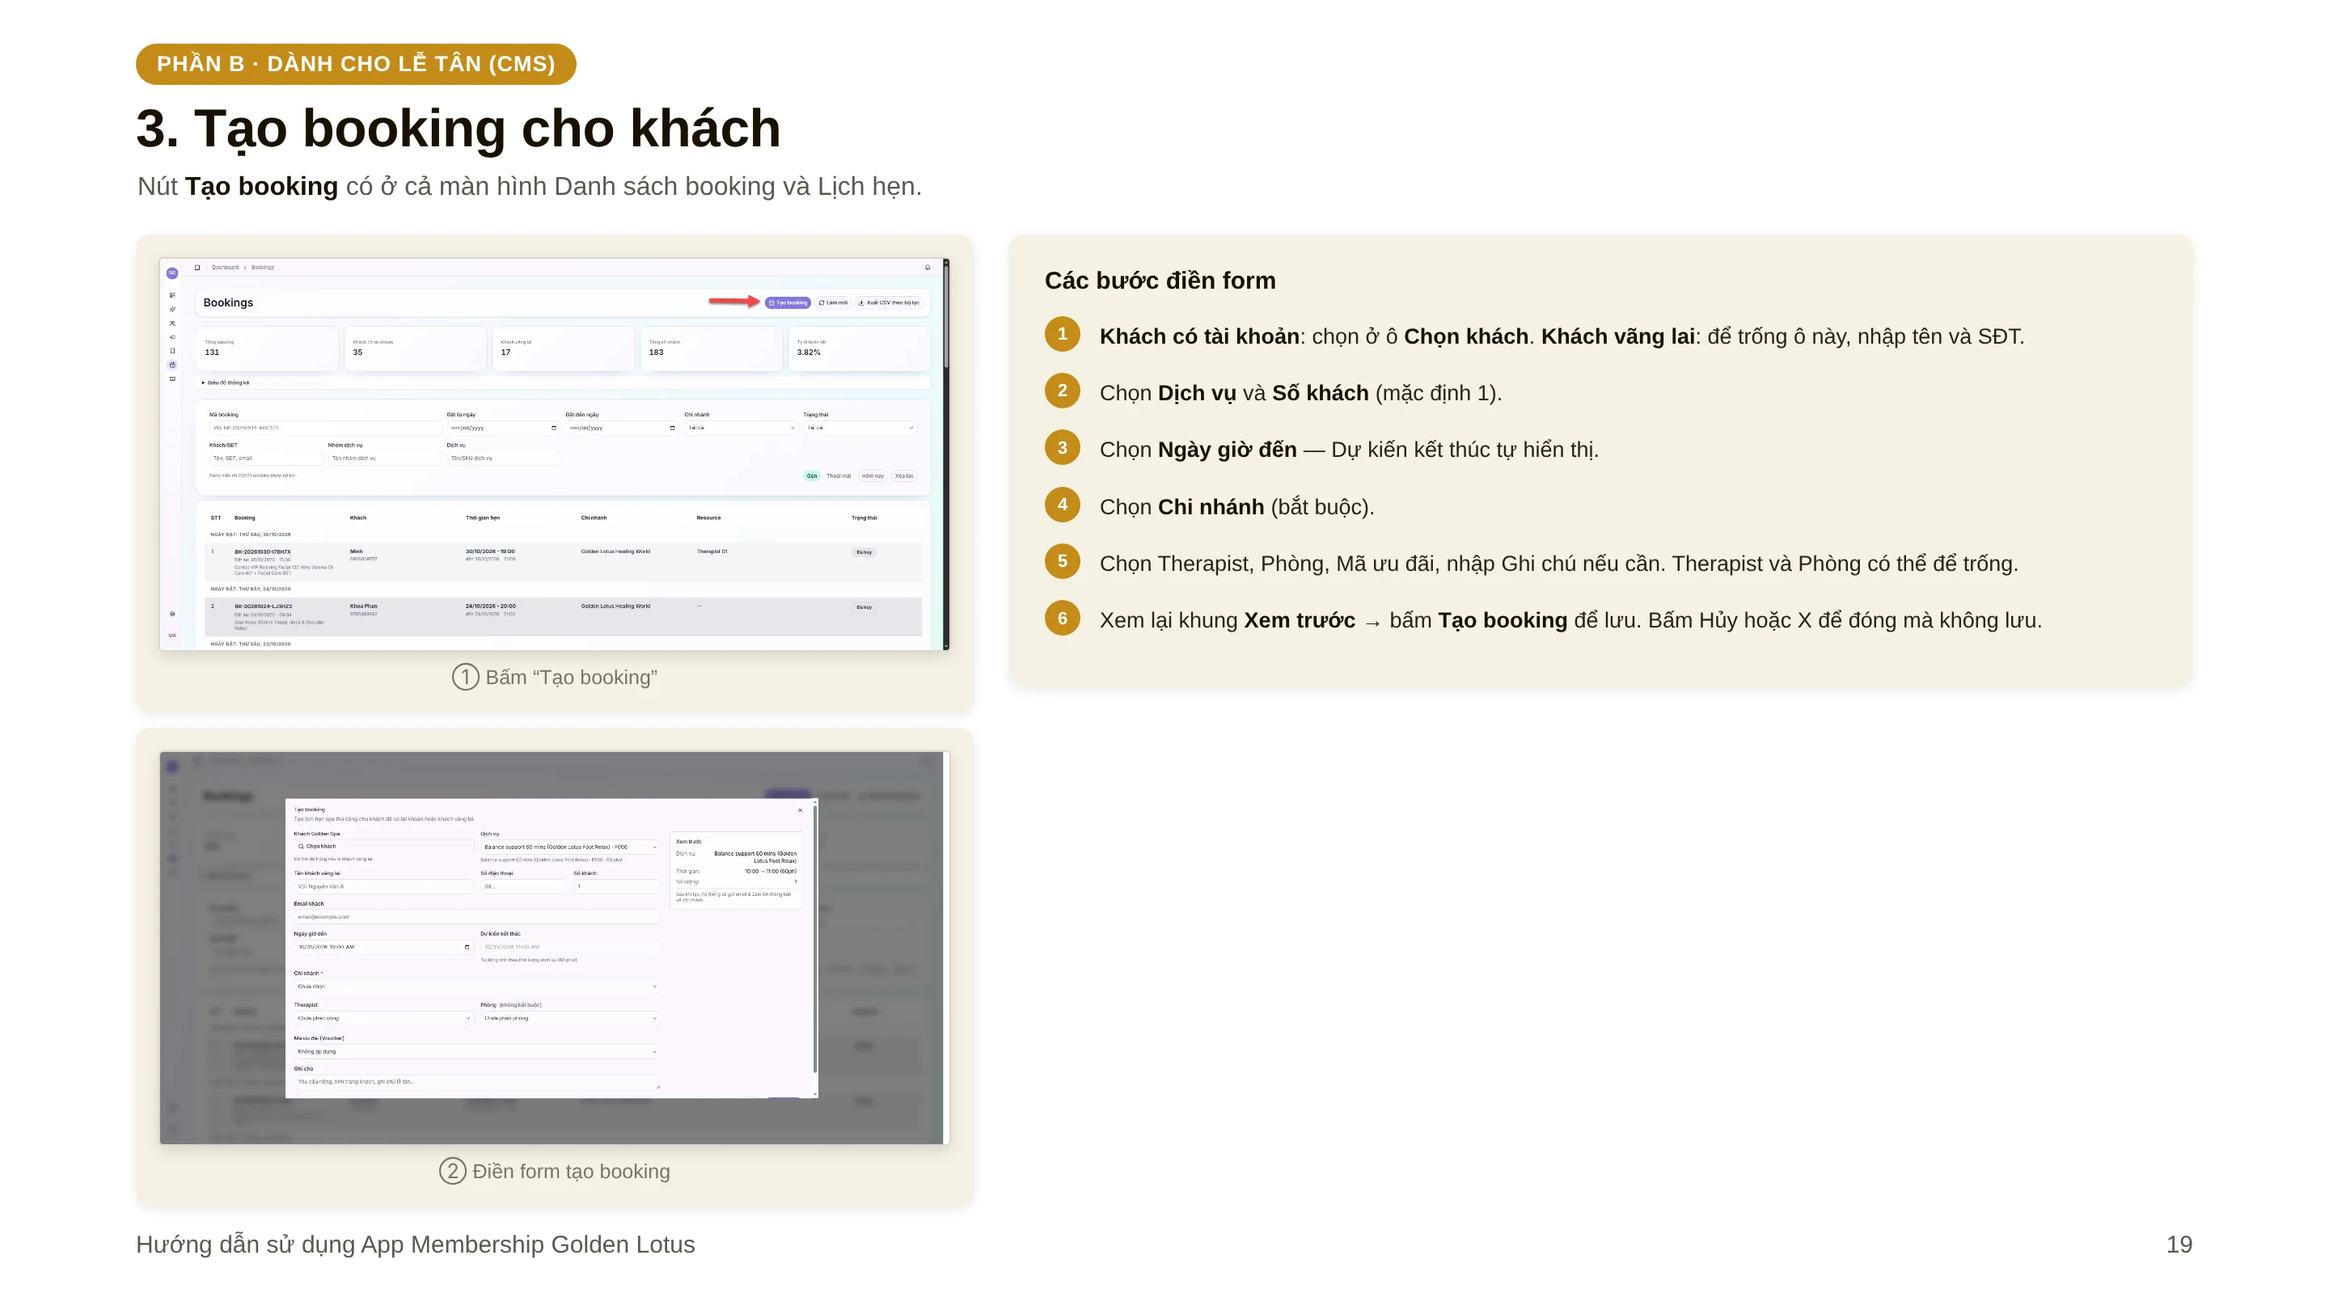
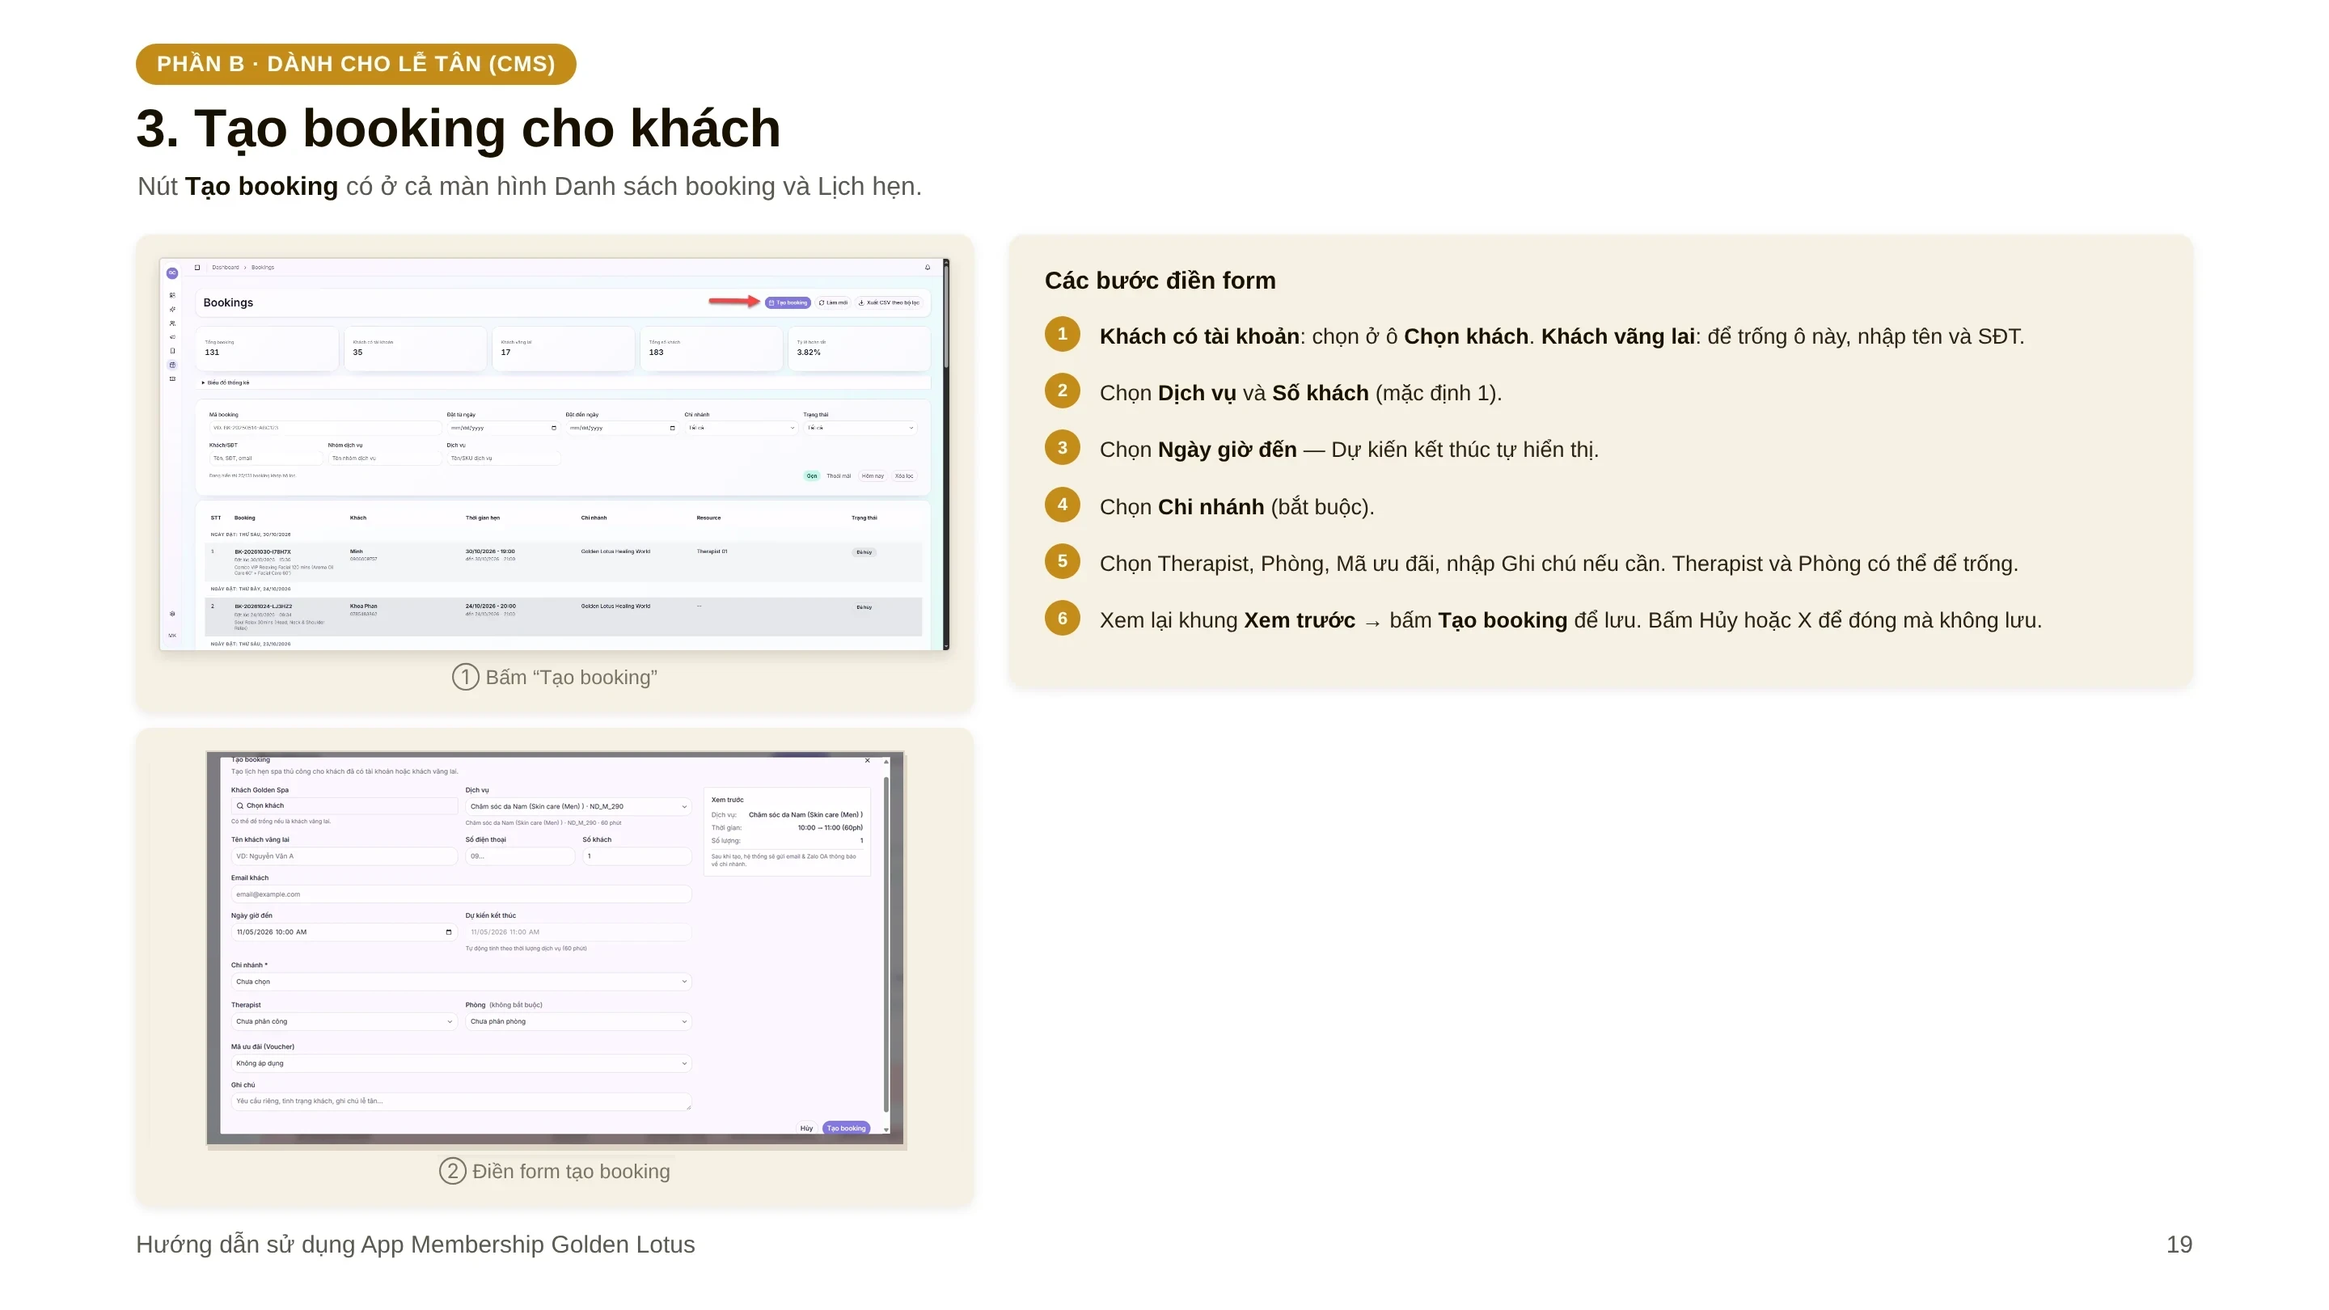
Slide 19: thay ảnh form Tạo booking bằng ảnh mới
Claude-Session: https://claude.ai/code/session_01RoCCcE5aUAib2frrCe3aCP

Changed region(s): [[0.0625, 0.5556, 0.4062, 0.8951], [0.1875, 0.7099, 0.25, 0.7407]]

diff --git a/membership-guide/src/app.html b/membership-guide/src/app.html
@@ -60,7 +60,7 @@ const NM=["Đăng ký tài khoản / Đăng nhập","Tìm lại mật khẩu","T
 const TO=[2,4,5,6,7,9,11,12,13,14,15,18,19,21,30,25,26];
 const CARDS=[[5.83,20.56,16.77,18.52],[23.75,20.56,16.77,18.52],[41.67,20.56,16.77,18.52],[59.58,20.56,16.77,18.52],[77.5,20.56,16.77,18.52],[5.83,40.74,16.77,18.52],[23.75,40.74,16.77,18.52],[41.67,40.74,16.77,18.52],[59.58,40.74,16.77,18.52],[5.83,67.96,9.0,18.52],[15.83,67.96,9.0,18.52],[25.83,67.96,9.0,18.52],[35.83,67.96,9.0,18.52],[45.83,67.96,9.0,18.52],[55.83,67.96,9.0,18.52],[72.92,67.96,10.07,18.52],[84.1,67.96,10.07,18.52]];
 const HOT=NM.map((n,i)=>({l:CARDS[i][0],t:CARDS[i][1],w:CARDS[i][2],h:CARDS[i][3],to:TO[i],name:n}));
-const ZONES={"2":[[5.1,28.89,13.09,47.55],[20.44,30.07,13.09,45.19],[35.78,28.65,13.09,48.03],[51.11,36.07,13.09,33.19],[66.45,29.71,13.09,45.92],[81.79,29.75,13.09,45.84]],"3":[[10.98,26.93,15.01,54.53],[42.47,26.93,15.04,54.53],[74.51,26.93,13.96,54.53]],"4":[[5.1,36.35,10.9,32.63],[18.25,37.0,10.9,31.33],[31.39,36.99,10.9,31.36],[44.54,35.58,10.9,34.17],[57.69,39.79,10.9,25.76],[70.83,38.88,10.9,27.57],[83.98,35.28,10.9,34.78]],"5":[[5.9,26.93,14.55,53.47],[23.51,46.94,16.16,13.46],[41.91,32.44,16.16,42.45],[60.32,42.27,16.16,22.8],[79.84,26.93,13.92,53.47]],"6":[[11.09,26.93,14.79,54.53],[41.83,26.93,16.31,54.53],[68.21,37.44,26.55,33.52]],"7":[[5.1,32.86,10.9,39.62],[18.25,37.44,10.9,30.45],[31.39,34.51,10.9,36.32],[44.54,31.95,10.9,41.44],[59.23,26.93,7.81,51.47],[70.83,30.18,10.9,44.98],[83.98,28.28,10.9,48.78]],"8":[[7.41,26.93,15.23,53.47],[28.41,36.35,19.86,34.64],[51.71,31.14,19.86,45.06],[75.96,26.93,17.97,53.47]],"9":[[11.04,26.93,14.9,54.53],[42.62,26.93,14.74,54.53],[68.21,34.78,26.55,38.84]],"10":[[5.1,35.46,10.9,39.48],[18.25,35.15,10.9,40.11],[31.39,39.31,10.9,31.78],[44.54,42.79,10.9,24.82],[57.69,35.05,10.9,40.3],[70.83,39.31,10.9,31.78],[83.98,42.79,10.9,24.82]],"11":[[10.96,26.93,15.05,54.53],[42.43,26.93,15.11,54.53],[68.21,39.52,26.55,29.35]],"12":[[11.12,26.93,14.74,54.53],[42.28,26.93,15.42,54.53],[73.98,26.93,15.01,54.53]],"13":[[7.83,26.93,21.32,54.53],[39.73,26.93,20.51,54.53],[73.98,26.93,15.01,54.53]],"14":[[32.4,19.63,65.97,60.3,"lt_cms.webp",1836,942]],"15":[[7.15,35.93,32.64,33.83,"lt_ds1.webp",1686,1004],[41.11,35.93,32.64,33.83,"lt_ds2.webp",1687,1006]],"16":[[6.81,19.63,84.72,25.03,"lt_filter.webp",1420,234]],"17":[[6.81,19.63,76.39,37.38,"lt_table.webp",1420,389]],"18":[[6.81,19.63,34.03,30.15,"b_bk3.webp",1920,953],[6.81,57.31,34.03,30.15,"b_bk4.webp",1920,953]],"19":[[6.81,19.63,67.36,62.96,"lt_lh.webp",1854,973]],"20":[[6.81,19.63,64.03,11.6,"lh_top.webp",920,92],[6.81,38.89,64.03,40.93,"lh_grid.webp",1340,480]],"21":[[5.83,24.26,52.6,48.57],[60.42,63.89,19.79,25.7]],"22":[[5.83,24.26,54.69,56.16]],"23":[[5.83,24.26,61.46,47.39]],"24":[[6.81,19.63,40.97,36.28,"b_bk5.webp",1920,953],[51.67,19.63,40.97,36.28,"b_bk6.webp",1920,953]],"25":[[27.22,19.63,65.97,59.97,"kt_full.webp",1852,945]],"26":[[6.81,19.63,67.36,61.23,"kt_full.webp",1852,945]],"27":[[6.81,19.63,86.39,18.48,"kt_cards.webp",1430,170],[6.81,42.8,86.39,14.4,"kt_filter.webp",1430,132]],"28":[[6.81,19.63,84.72,42.65,"kt_table.webp",1390,392]],"29":[[6.81,19.63,84.72,42.65,"kt_table.webp",1390,392]],"31":[[7.08, 20.25, 18.06, 53.58, "pos_ph_00.jpg", 425, 652], [52.01, 20.25, 18.06, 53.58, "pos_ph_01.jpg", 416, 630]],"32":[[6.94, 20.0, 26.18, 40.74, "pos_ph_02.jpg", 478, 532], [36.88, 20.0, 26.18, 40.74, "pos_use_point_full.jpg", 1910, 1085], [66.81, 20.0, 26.18, 40.74, "pos_ph_03.jpg", 409, 655]],"33":[[6.94, 20.0, 26.18, 40.74, "pos_ph_04.jpg", 558, 868], [36.88, 20.0, 26.18, 40.74, "pos_ph_05.jpg", 552, 635], [66.81, 20.0, 26.18, 40.74, "pos_ph_06.jpg", 445, 654]],"36":[[6.94, 20.0, 26.18, 40.74, "pos_ph_07.jpg", 425, 652], [36.88, 20.0, 26.18, 40.74, "pos_ph_08.jpg", 416, 630], [66.81, 20.0, 26.18, 40.74, "pos_ph_09.jpg", 1758, 868]],"37":[[6.94, 20.0, 26.18, 40.74, "pos_ph_10.jpg", 506, 848], [36.88, 20.0, 26.18, 40.74, "pos_ph_11.jpg", 987, 862], [66.81, 20.0, 26.18, 40.74, "pos_ph_12.jpg", 2048, 939]],"38":[[6.94, 20.0, 33.89, 37.04, "pos_ph_13.jpg", 935, 646]],"39":[[6.67, 19.51, 34.44, 61.23, "pos_huy_phieu.jpg", 1000, 975]]};
+const ZONES={"2":[[5.1,28.89,13.09,47.55],[20.44,30.07,13.09,45.19],[35.78,28.65,13.09,48.03],[51.11,36.07,13.09,33.19],[66.45,29.71,13.09,45.92],[81.79,29.75,13.09,45.84]],"3":[[10.98,26.93,15.01,54.53],[42.47,26.93,15.04,54.53],[74.51,26.93,13.96,54.53]],"4":[[5.1,36.35,10.9,32.63],[18.25,37.0,10.9,31.33],[31.39,36.99,10.9,31.36],[44.54,35.58,10.9,34.17],[57.69,39.79,10.9,25.76],[70.83,38.88,10.9,27.57],[83.98,35.28,10.9,34.78]],"5":[[5.9,26.93,14.55,53.47],[23.51,46.94,16.16,13.46],[41.91,32.44,16.16,42.45],[60.32,42.27,16.16,22.8],[79.84,26.93,13.92,53.47]],"6":[[11.09,26.93,14.79,54.53],[41.83,26.93,16.31,54.53],[68.21,37.44,26.55,33.52]],"7":[[5.1,32.86,10.9,39.62],[18.25,37.44,10.9,30.45],[31.39,34.51,10.9,36.32],[44.54,31.95,10.9,41.44],[59.23,26.93,7.81,51.47],[70.83,30.18,10.9,44.98],[83.98,28.28,10.9,48.78]],"8":[[7.41,26.93,15.23,53.47],[28.41,36.35,19.86,34.64],[51.71,31.14,19.86,45.06],[75.96,26.93,17.97,53.47]],"9":[[11.04,26.93,14.9,54.53],[42.62,26.93,14.74,54.53],[68.21,34.78,26.55,38.84]],"10":[[5.1,35.46,10.9,39.48],[18.25,35.15,10.9,40.11],[31.39,39.31,10.9,31.78],[44.54,42.79,10.9,24.82],[57.69,35.05,10.9,40.3],[70.83,39.31,10.9,31.78],[83.98,42.79,10.9,24.82]],"11":[[10.96,26.93,15.05,54.53],[42.43,26.93,15.11,54.53],[68.21,39.52,26.55,29.35]],"12":[[11.12,26.93,14.74,54.53],[42.28,26.93,15.42,54.53],[73.98,26.93,15.01,54.53]],"13":[[7.83,26.93,21.32,54.53],[39.73,26.93,20.51,54.53],[73.98,26.93,15.01,54.53]],"14":[[32.4,19.63,65.97,60.3,"lt_cms.webp",1836,942]],"15":[[7.15,35.93,32.64,33.83,"lt_ds1.webp",1686,1004],[41.11,35.93,32.64,33.83,"lt_ds2.webp",1687,1006]],"16":[[6.81,19.63,84.72,25.03,"lt_filter.webp",1420,234]],"17":[[6.81,19.63,76.39,37.38,"lt_table.webp",1420,389]],"18":[[6.81,19.63,34.03,30.15,"b_bk3.webp",1920,953],[8.82,57.28,30.0,30.12,"b_bk4n.webp",1352,764]],"19":[[6.81,19.63,67.36,62.96,"lt_lh.webp",1854,973]],"20":[[6.81,19.63,64.03,11.6,"lh_top.webp",920,92],[6.81,38.89,64.03,40.93,"lh_grid.webp",1340,480]],"21":[[5.83,24.26,52.6,48.57],[60.42,63.89,19.79,25.7]],"22":[[5.83,24.26,54.69,56.16]],"23":[[5.83,24.26,61.46,47.39]],"24":[[6.81,19.63,40.97,36.28,"b_bk5.webp",1920,953],[51.67,19.63,40.97,36.28,"b_bk6.webp",1920,953]],"25":[[27.22,19.63,65.97,59.97,"kt_full.webp",1852,945]],"26":[[6.81,19.63,67.36,61.23,"kt_full.webp",1852,945]],"27":[[6.81,19.63,86.39,18.48,"kt_cards.webp",1430,170],[6.81,42.8,86.39,14.4,"kt_filter.webp",1430,132]],"28":[[6.81,19.63,84.72,42.65,"kt_table.webp",1390,392]],"29":[[6.81,19.63,84.72,42.65,"kt_table.webp",1390,392]],"31":[[7.08, 20.25, 18.06, 53.58, "pos_ph_00.jpg", 425, 652], [52.01, 20.25, 18.06, 53.58, "pos_ph_01.jpg", 416, 630]],"32":[[6.94, 20.0, 26.18, 40.74, "pos_ph_02.jpg", 478, 532], [36.88, 20.0, 26.18, 40.74, "pos_use_point_full.jpg", 1910, 1085], [66.81, 20.0, 26.18, 40.74, "pos_ph_03.jpg", 409, 655]],"33":[[6.94, 20.0, 26.18, 40.74, "pos_ph_04.jpg", 558, 868], [36.88, 20.0, 26.18, 40.74, "pos_ph_05.jpg", 552, 635], [66.81, 20.0, 26.18, 40.74, "pos_ph_06.jpg", 445, 654]],"36":[[6.94, 20.0, 26.18, 40.74, "pos_ph_07.jpg", 425, 652], [36.88, 20.0, 26.18, 40.74, "pos_ph_08.jpg", 416, 630], [66.81, 20.0, 26.18, 40.74, "pos_ph_09.jpg", 1758, 868]],"37":[[6.94, 20.0, 26.18, 40.74, "pos_ph_10.jpg", 506, 848], [36.88, 20.0, 26.18, 40.74, "pos_ph_11.jpg", 987, 862], [66.81, 20.0, 26.18, 40.74, "pos_ph_12.jpg", 2048, 939]],"38":[[6.94, 20.0, 33.89, 37.04, "pos_ph_13.jpg", 935, 646]],"39":[[6.67, 19.51, 34.44, 61.23, "pos_huy_phieu.jpg", 1000, 975]]};
 const SIZES=[148518,242384,443017,373956,424631,517810,395477,518151,401313,393800,597413,375189,449216,393479,329762];
 let IMGS=[];
 const img=document.getElementById('img'),slide=document.getElementById('slide');

diff --git a/membership-guide/src/index.html b/membership-guide/src/index.html
@@ -60,7 +60,7 @@ const NM=["Đăng ký tài khoản / Đăng nhập","Tìm lại mật khẩu","T
 const TO=[2,4,5,6,7,9,11,12,13,14,15,18,19,21,30,25,26];
 const CARDS=[[5.83,20.56,16.77,18.52],[23.75,20.56,16.77,18.52],[41.67,20.56,16.77,18.52],[59.58,20.56,16.77,18.52],[77.5,20.56,16.77,18.52],[5.83,40.74,16.77,18.52],[23.75,40.74,16.77,18.52],[41.67,40.74,16.77,18.52],[59.58,40.74,16.77,18.52],[5.83,67.96,9.0,18.52],[15.83,67.96,9.0,18.52],[25.83,67.96,9.0,18.52],[35.83,67.96,9.0,18.52],[45.83,67.96,9.0,18.52],[55.83,67.96,9.0,18.52],[72.92,67.96,10.07,18.52],[84.1,67.96,10.07,18.52]];
 const HOT=NM.map((n,i)=>({l:CARDS[i][0],t:CARDS[i][1],w:CARDS[i][2],h:CARDS[i][3],to:TO[i],name:n}));
-const ZONES={"2":[[5.1,28.89,13.09,47.55],[20.44,30.07,13.09,45.19],[35.78,28.65,13.09,48.03],[51.11,36.07,13.09,33.19],[66.45,29.71,13.09,45.92],[81.79,29.75,13.09,45.84]],"3":[[10.98,26.93,15.01,54.53],[42.47,26.93,15.04,54.53],[74.51,26.93,13.96,54.53]],"4":[[5.1,36.35,10.9,32.63],[18.25,37.0,10.9,31.33],[31.39,36.99,10.9,31.36],[44.54,35.58,10.9,34.17],[57.69,39.79,10.9,25.76],[70.83,38.88,10.9,27.57],[83.98,35.28,10.9,34.78]],"5":[[5.9,26.93,14.55,53.47],[23.51,46.94,16.16,13.46],[41.91,32.44,16.16,42.45],[60.32,42.27,16.16,22.8],[79.84,26.93,13.92,53.47]],"6":[[11.09,26.93,14.79,54.53],[41.83,26.93,16.31,54.53],[68.21,37.44,26.55,33.52]],"7":[[5.1,32.86,10.9,39.62],[18.25,37.44,10.9,30.45],[31.39,34.51,10.9,36.32],[44.54,31.95,10.9,41.44],[59.23,26.93,7.81,51.47],[70.83,30.18,10.9,44.98],[83.98,28.28,10.9,48.78]],"8":[[7.41,26.93,15.23,53.47],[28.41,36.35,19.86,34.64],[51.71,31.14,19.86,45.06],[75.96,26.93,17.97,53.47]],"9":[[11.04,26.93,14.9,54.53],[42.62,26.93,14.74,54.53],[68.21,34.78,26.55,38.84]],"10":[[5.1,35.46,10.9,39.48],[18.25,35.15,10.9,40.11],[31.39,39.31,10.9,31.78],[44.54,42.79,10.9,24.82],[57.69,35.05,10.9,40.3],[70.83,39.31,10.9,31.78],[83.98,42.79,10.9,24.82]],"11":[[10.96,26.93,15.05,54.53],[42.43,26.93,15.11,54.53],[68.21,39.52,26.55,29.35]],"12":[[11.12,26.93,14.74,54.53],[42.28,26.93,15.42,54.53],[73.98,26.93,15.01,54.53]],"13":[[7.83,26.93,21.32,54.53],[39.73,26.93,20.51,54.53],[73.98,26.93,15.01,54.53]],"14":[[32.4,19.63,65.97,60.3,"lt_cms.webp",1836,942]],"15":[[7.15,35.93,32.64,33.83,"lt_ds1.webp",1686,1004],[41.11,35.93,32.64,33.83,"lt_ds2.webp",1687,1006]],"16":[[6.81,19.63,84.72,25.03,"lt_filter.webp",1420,234]],"17":[[6.81,19.63,76.39,37.38,"lt_table.webp",1420,389]],"18":[[6.81,19.63,34.03,30.15,"b_bk3.webp",1920,953],[6.81,57.31,34.03,30.15,"b_bk4.webp",1920,953]],"19":[[6.81,19.63,67.36,62.96,"lt_lh.webp",1854,973]],"20":[[6.81,19.63,64.03,11.6,"lh_top.webp",920,92],[6.81,38.89,64.03,40.93,"lh_grid.webp",1340,480]],"21":[[5.83,24.26,52.6,48.57],[60.42,63.89,19.79,25.7]],"22":[[5.83,24.26,54.69,56.16]],"23":[[5.83,24.26,61.46,47.39]],"24":[[6.81,19.63,40.97,36.28,"b_bk5.webp",1920,953],[51.67,19.63,40.97,36.28,"b_bk6.webp",1920,953]],"25":[[27.22,19.63,65.97,59.97,"kt_full.webp",1852,945]],"26":[[6.81,19.63,67.36,61.23,"kt_full.webp",1852,945]],"27":[[6.81,19.63,86.39,18.48,"kt_cards.webp",1430,170],[6.81,42.8,86.39,14.4,"kt_filter.webp",1430,132]],"28":[[6.81,19.63,84.72,42.65,"kt_table.webp",1390,392]],"29":[[6.81,19.63,84.72,42.65,"kt_table.webp",1390,392]],"31":[[7.08, 20.25, 18.06, 53.58, "pos_ph_00.jpg", 425, 652], [52.01, 20.25, 18.06, 53.58, "pos_ph_01.jpg", 416, 630]],"32":[[6.94, 20.0, 26.18, 40.74, "pos_ph_02.jpg", 478, 532], [36.88, 20.0, 26.18, 40.74, "pos_use_point_full.jpg", 1910, 1085], [66.81, 20.0, 26.18, 40.74, "pos_ph_03.jpg", 409, 655]],"33":[[6.94, 20.0, 26.18, 40.74, "pos_ph_04.jpg", 558, 868], [36.88, 20.0, 26.18, 40.74, "pos_ph_05.jpg", 552, 635], [66.81, 20.0, 26.18, 40.74, "pos_ph_06.jpg", 445, 654]],"36":[[6.94, 20.0, 26.18, 40.74, "pos_ph_07.jpg", 425, 652], [36.88, 20.0, 26.18, 40.74, "pos_ph_08.jpg", 416, 630], [66.81, 20.0, 26.18, 40.74, "pos_ph_09.jpg", 1758, 868]],"37":[[6.94, 20.0, 26.18, 40.74, "pos_ph_10.jpg", 506, 848], [36.88, 20.0, 26.18, 40.74, "pos_ph_11.jpg", 987, 862], [66.81, 20.0, 26.18, 40.74, "pos_ph_12.jpg", 2048, 939]],"38":[[6.94, 20.0, 33.89, 37.04, "pos_ph_13.jpg", 935, 646]],"39":[[6.67, 19.51, 34.44, 61.23, "pos_huy_phieu.jpg", 1000, 975]]};
+const ZONES={"2":[[5.1,28.89,13.09,47.55],[20.44,30.07,13.09,45.19],[35.78,28.65,13.09,48.03],[51.11,36.07,13.09,33.19],[66.45,29.71,13.09,45.92],[81.79,29.75,13.09,45.84]],"3":[[10.98,26.93,15.01,54.53],[42.47,26.93,15.04,54.53],[74.51,26.93,13.96,54.53]],"4":[[5.1,36.35,10.9,32.63],[18.25,37.0,10.9,31.33],[31.39,36.99,10.9,31.36],[44.54,35.58,10.9,34.17],[57.69,39.79,10.9,25.76],[70.83,38.88,10.9,27.57],[83.98,35.28,10.9,34.78]],"5":[[5.9,26.93,14.55,53.47],[23.51,46.94,16.16,13.46],[41.91,32.44,16.16,42.45],[60.32,42.27,16.16,22.8],[79.84,26.93,13.92,53.47]],"6":[[11.09,26.93,14.79,54.53],[41.83,26.93,16.31,54.53],[68.21,37.44,26.55,33.52]],"7":[[5.1,32.86,10.9,39.62],[18.25,37.44,10.9,30.45],[31.39,34.51,10.9,36.32],[44.54,31.95,10.9,41.44],[59.23,26.93,7.81,51.47],[70.83,30.18,10.9,44.98],[83.98,28.28,10.9,48.78]],"8":[[7.41,26.93,15.23,53.47],[28.41,36.35,19.86,34.64],[51.71,31.14,19.86,45.06],[75.96,26.93,17.97,53.47]],"9":[[11.04,26.93,14.9,54.53],[42.62,26.93,14.74,54.53],[68.21,34.78,26.55,38.84]],"10":[[5.1,35.46,10.9,39.48],[18.25,35.15,10.9,40.11],[31.39,39.31,10.9,31.78],[44.54,42.79,10.9,24.82],[57.69,35.05,10.9,40.3],[70.83,39.31,10.9,31.78],[83.98,42.79,10.9,24.82]],"11":[[10.96,26.93,15.05,54.53],[42.43,26.93,15.11,54.53],[68.21,39.52,26.55,29.35]],"12":[[11.12,26.93,14.74,54.53],[42.28,26.93,15.42,54.53],[73.98,26.93,15.01,54.53]],"13":[[7.83,26.93,21.32,54.53],[39.73,26.93,20.51,54.53],[73.98,26.93,15.01,54.53]],"14":[[32.4,19.63,65.97,60.3,"lt_cms.webp",1836,942]],"15":[[7.15,35.93,32.64,33.83,"lt_ds1.webp",1686,1004],[41.11,35.93,32.64,33.83,"lt_ds2.webp",1687,1006]],"16":[[6.81,19.63,84.72,25.03,"lt_filter.webp",1420,234]],"17":[[6.81,19.63,76.39,37.38,"lt_table.webp",1420,389]],"18":[[6.81,19.63,34.03,30.15,"b_bk3.webp",1920,953],[8.82,57.28,30.0,30.12,"b_bk4n.webp",1352,764]],"19":[[6.81,19.63,67.36,62.96,"lt_lh.webp",1854,973]],"20":[[6.81,19.63,64.03,11.6,"lh_top.webp",920,92],[6.81,38.89,64.03,40.93,"lh_grid.webp",1340,480]],"21":[[5.83,24.26,52.6,48.57],[60.42,63.89,19.79,25.7]],"22":[[5.83,24.26,54.69,56.16]],"23":[[5.83,24.26,61.46,47.39]],"24":[[6.81,19.63,40.97,36.28,"b_bk5.webp",1920,953],[51.67,19.63,40.97,36.28,"b_bk6.webp",1920,953]],"25":[[27.22,19.63,65.97,59.97,"kt_full.webp",1852,945]],"26":[[6.81,19.63,67.36,61.23,"kt_full.webp",1852,945]],"27":[[6.81,19.63,86.39,18.48,"kt_cards.webp",1430,170],[6.81,42.8,86.39,14.4,"kt_filter.webp",1430,132]],"28":[[6.81,19.63,84.72,42.65,"kt_table.webp",1390,392]],"29":[[6.81,19.63,84.72,42.65,"kt_table.webp",1390,392]],"31":[[7.08, 20.25, 18.06, 53.58, "pos_ph_00.jpg", 425, 652], [52.01, 20.25, 18.06, 53.58, "pos_ph_01.jpg", 416, 630]],"32":[[6.94, 20.0, 26.18, 40.74, "pos_ph_02.jpg", 478, 532], [36.88, 20.0, 26.18, 40.74, "pos_use_point_full.jpg", 1910, 1085], [66.81, 20.0, 26.18, 40.74, "pos_ph_03.jpg", 409, 655]],"33":[[6.94, 20.0, 26.18, 40.74, "pos_ph_04.jpg", 558, 868], [36.88, 20.0, 26.18, 40.74, "pos_ph_05.jpg", 552, 635], [66.81, 20.0, 26.18, 40.74, "pos_ph_06.jpg", 445, 654]],"36":[[6.94, 20.0, 26.18, 40.74, "pos_ph_07.jpg", 425, 652], [36.88, 20.0, 26.18, 40.74, "pos_ph_08.jpg", 416, 630], [66.81, 20.0, 26.18, 40.74, "pos_ph_09.jpg", 1758, 868]],"37":[[6.94, 20.0, 26.18, 40.74, "pos_ph_10.jpg", 506, 848], [36.88, 20.0, 26.18, 40.74, "pos_ph_11.jpg", 987, 862], [66.81, 20.0, 26.18, 40.74, "pos_ph_12.jpg", 2048, 939]],"38":[[6.94, 20.0, 33.89, 37.04, "pos_ph_13.jpg", 935, 646]],"39":[[6.67, 19.51, 34.44, 61.23, "pos_huy_phieu.jpg", 1000, 975]]};
 const SIZES=[148518,242384,443017,373956,424631,517810,395477,518151,401313,393800,597413,375189,449216,393479,329762];
 let IMGS=[];
 const img=document.getElementById('img'),slide=document.getElementById('slide');
